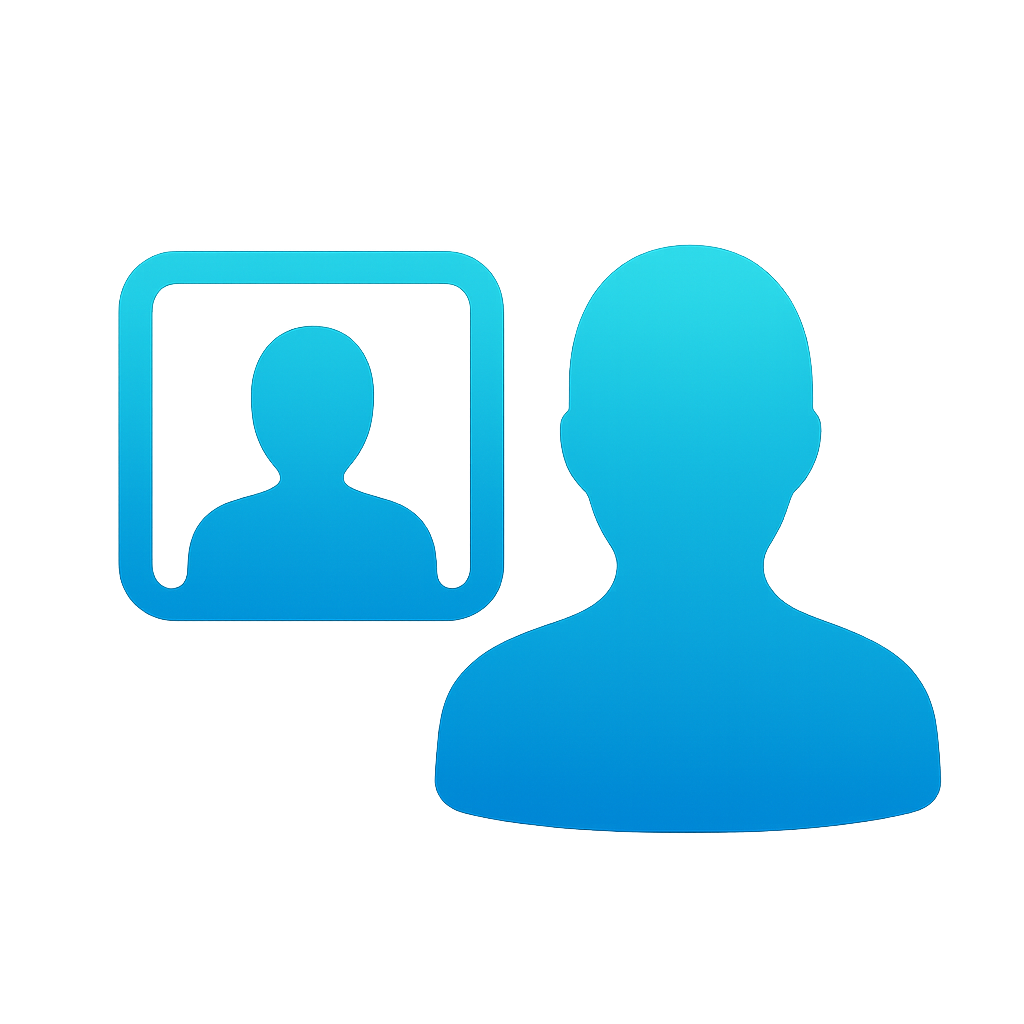
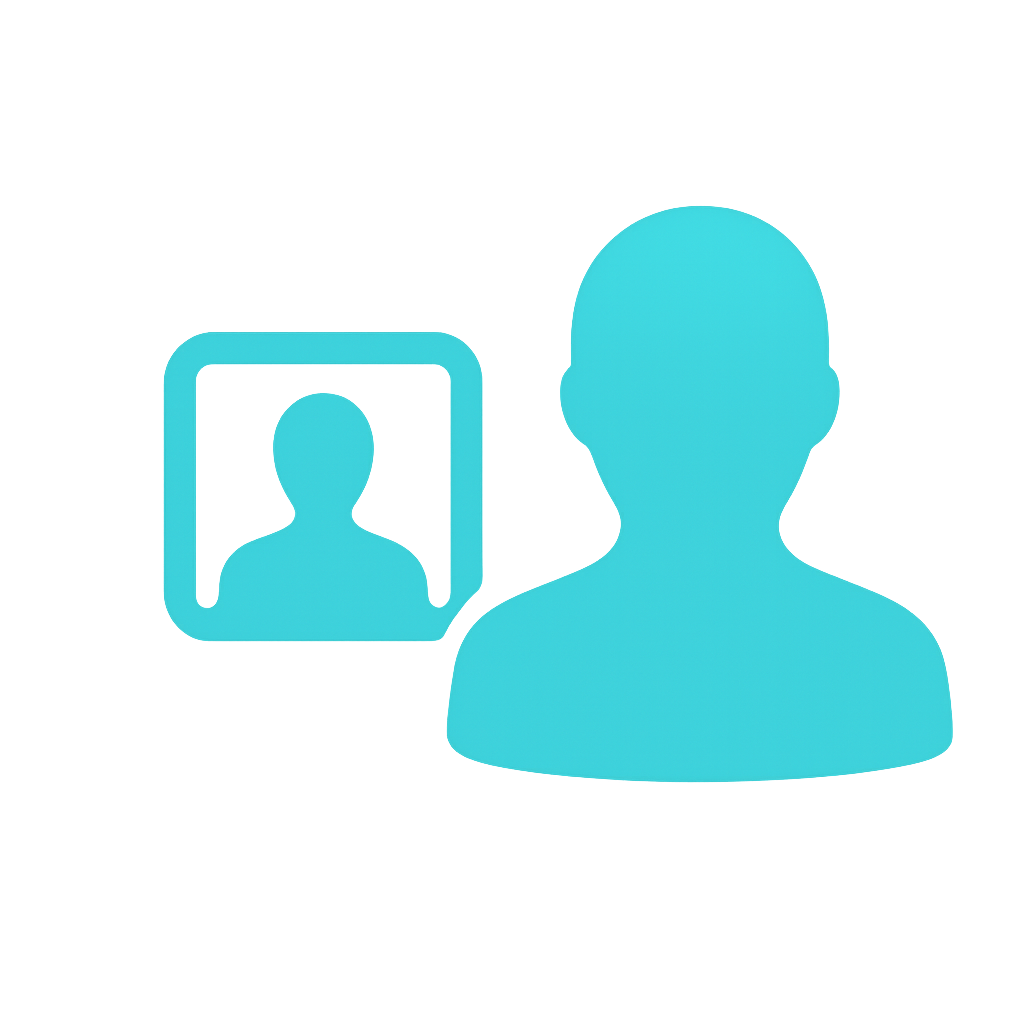
LPページ改修: ヘッダーのスクロール改善・色味シアン統一・パートナーボタンのミニマル化(PC/モバイル)・PC版赤ドット削除／モバイルスライドメニューをリッチ化・アイコン付リンク化／セクションID追加(services/results/contact)で正確スクロール対応／実績・お問い合わせセクションのID整備

Changed region(s): [[0.0938, 0.1875, 0.9375, 0.8125]]

diff --git a/components/lp/LPHeader.tsx b/components/lp/LPHeader.tsx
@@ -8,8 +8,15 @@ import { motion } from 'framer-motion'
 export default function LPHeader() {
   const [isMenuOpen, setIsMenuOpen] = useState(false)
 
+  const scrollToId = (id: string) => {
+    const el = document.getElementById(id)
+    if (el) {
+      el.scrollIntoView({ behavior: 'smooth', block: 'start' })
+    }
+  }
+
   return (
-    <header className="relative z-50 bg-white/95 backdrop-blur-md border-b border-gray-200/50">
+    <header className="relative z-50 bg-white border-b border-gray-200/70">
       <div className="container mx-auto px-4">
         <div className="flex items-center justify-between h-16">
           {/* ロゴ */}
@@ -25,61 +32,60 @@ export default function LPHeader() {
           </Link>
 
           {/* デスクトップメニュー */}
-          <nav className="hidden md:flex items-center gap-6">
-            <Link 
-              href="#services" 
-              className="text-gray-600 hover:text-blue-600 transition-colors font-medium"
+          <nav className="hidden md:flex items-center gap-4">
+            <Link
+              href="#services"
+              onClick={(e) => { e.preventDefault(); scrollToId('services') }}
+              className="px-3 py-1 rounded-full text-gray-700 hover:text-cyan-700 hover:bg-cyan-50 transition-colors font-medium ring-1 ring-transparent hover:ring-cyan-100"
             >
               サービス
             </Link>
-            <Link 
-              href="#results" 
-              className="text-gray-600 hover:text-blue-600 transition-colors font-medium"
+            <Link
+              href="#results"
+              onClick={(e) => { e.preventDefault(); scrollToId('results') }}
+              className="px-3 py-1 rounded-full text-gray-700 hover:text-cyan-700 hover:bg-cyan-50 transition-colors font-medium ring-1 ring-transparent hover:ring-cyan-100"
             >
               実績
             </Link>
-            <Link 
-              href="#contact" 
-              className="text-gray-600 hover:text-blue-600 transition-colors font-medium"
+            <Link
+              href="#contact"
+              onClick={(e) => { e.preventDefault(); scrollToId('contact') }}
+              className="px-3 py-1 rounded-full text-gray-700 hover:text-cyan-700 hover:bg-cyan-50 transition-colors font-medium ring-1 ring-transparent hover:ring-cyan-100"
             >
               お問い合わせ
             </Link>
-            
-            {/* パートナーボタン - 特別デザイン */}
+
+            {/* パートナーボタン - ミニマル＆プレミアム */}
             <Link 
               href="/partners"
-              className="group relative px-6 py-2 bg-gradient-to-r from-purple-500 via-blue-500 to-cyan-500 text-white font-bold rounded-full shadow-lg hover:shadow-xl transform hover:scale-105 transition-all duration-300 border-2 border-white/20"
+              aria-label="パートナー"
+              className="inline-flex items-center gap-2 px-4 py-2 rounded-full text-white text-sm font-semibold bg-gradient-to-r from-cyan-500 to-cyan-600 shadow-md hover:shadow-lg ring-1 ring-cyan-200 transition-colors duration-200 focus-visible:outline-none focus-visible:ring-2 focus-visible:ring-cyan-300"
             >
-              <span className="relative z-10 flex items-center gap-2">
-                <svg className="w-4 h-4" fill="none" stroke="currentColor" viewBox="0 0 24 24">
-                  <path strokeLinecap="round" strokeLinejoin="round" strokeWidth={2} d="M17 20h5v-2a3 3 0 00-5.356-1.857M17 20H7m10 0v-2c0-.656-.126-1.283-.356-1.857M7 20H2v-2a3 3 0 015.356-1.857M7 20v-2c0-.656.126-1.283.356-1.857m0 0a5.002 5.002 0 019.288 0M15 7a3 3 0 11-6 0 3 3 0 016 0zm6 3a2 2 0 11-4 0 2 2 0 014 0zM7 10a2 2 0 11-4 0 2 2 0 014 0z" />
-                </svg>
-                パートナー
-                <div className="absolute -top-1 -right-1 w-2 h-2 bg-red-500 rounded-full animate-pulse"></div>
-              </span>
-              <div className="absolute inset-0 bg-gradient-to-r from-purple-600 via-blue-600 to-cyan-600 rounded-full opacity-0 group-hover:opacity-100 transition-opacity duration-300"></div>
+              <svg className="w-5 h-5" fill="none" stroke="currentColor" viewBox="0 0 24 24">
+                <path strokeLinecap="round" strokeLinejoin="round" strokeWidth={2} d="M17 20h5v-2a3 3 0 00-5.356-1.857M17 20H7m10 0v-2c0-.656-.126-1.283-.356-1.857M7 20H2v-2a3 3 0 015.356-1.857M7 20v-2c0-.656.126-1.283.356-1.857m0 0a5.002 5.002 0 019.288 0M15 7a3 3 0 11-6 0 3 3 0 016 0zm6 3a2 2 0 11-4 0 2 2 0 014 0zM7 10a2 2 0 11-4 0 2 2 0 014 0z" />
+              </svg>
+              パートナー
             </Link>
           </nav>
 
           {/* モバイル版：パートナーボタンとメニューボタン */}
           <div className="md:hidden flex items-center gap-3">
-            {/* パートナーボタン - モバイル版 */}
+            {/* パートナーボタン - モバイル（ミニマル） */}
             <Link 
               href="/partners"
-              className="px-4 py-2 bg-gradient-to-r from-purple-500 via-blue-500 to-cyan-500 text-white font-bold rounded-full text-sm shadow-lg"
+              aria-label="パートナー"
+              className="inline-flex items-center gap-1.5 px-3.5 py-1.5 rounded-full text-white font-semibold text-xs bg-gradient-to-r from-cyan-500 to-cyan-600 shadow-md ring-1 ring-cyan-200 transition-colors duration-200 active:opacity-90"
             >
-              <span className="flex items-center gap-1">
-                <svg className="w-3 h-3" fill="none" stroke="currentColor" viewBox="0 0 24 24">
-                  <path strokeLinecap="round" strokeLinejoin="round" strokeWidth={2} d="M17 20h5v-2a3 3 0 00-5.356-1.857M17 20H7m10 0v-2c0-.656-.126-1.283-.356-1.857M7 20H2v-2a3 3 0 015.356-1.857M7 20v-2c0-.656.126-1.283.356-1.857m0 0a5.002 5.002 0 019.288 0M15 7a3 3 0 11-6 0 3 3 0 016 0zm6 3a2 2 0 11-4 0 2 2 0 014 0zM7 10a2 2 0 11-4 0 2 2 0 014 0z" />
-                </svg>
-                パートナー
-              </span>
+              <svg className="w-4 h-4" fill="none" stroke="currentColor" viewBox="0 0 24 24">
+                <path strokeLinecap="round" strokeLinejoin="round" strokeWidth={2} d="M17 20h5v-2a3 3 0 00-5.356-1.857M17 20H7m10 0v-2c0-.656-.126-1.283-.356-1.857M7 20H2v-2a3 3 0 015.356-1.857M7 20v-2c0-.656.126-1.283.356-1.857m0 0a5.002 5.002 0 019.288 0M15 7a3 3 0 11-6 0 3 3 0 016 0zm6 3a2 2 0 11-4 0 2 2 0 014 0zM7 10a2 2 0 11-4 0 2 2 0 014 0z" />
+              </svg>
+              パートナー
             </Link>
             
             {/* ハンバーガーメニューボタン */}
             <button
               onClick={() => setIsMenuOpen(!isMenuOpen)}
-              className="flex items-center justify-center w-10 h-10 rounded-lg text-gray-600 hover:text-blue-600 hover:bg-gray-100 transition-colors"
+              className="flex items-center justify-center w-10 h-10 rounded-lg text-gray-600 hover:text-cyan-700 hover:bg-gray-100 transition-colors"
             >
               <svg className="w-6 h-6" fill="none" stroke="currentColor" viewBox="0 0 24 24">
                 {isMenuOpen ? (
@@ -98,31 +104,53 @@ export default function LPHeader() {
             initial={{ opacity: 0, y: -20 }}
             animate={{ opacity: 1, y: 0 }}
             exit={{ opacity: 0, y: -20 }}
-            className="md:hidden absolute top-16 left-0 right-0 bg-white border-b border-gray-200 shadow-lg"
+            className="md:hidden absolute top-16 left-0 right-0"
           >
-            <nav className="container mx-auto px-4 py-4 space-y-3">
-              <Link 
-                href="#services" 
-                className="block text-gray-600 hover:text-blue-600 transition-colors font-medium py-2"
-                onClick={() => setIsMenuOpen(false)}
-              >
-                サービス
-              </Link>
-              <Link 
-                href="#results" 
-                className="block text-gray-600 hover:text-blue-600 transition-colors font-medium py-2"
-                onClick={() => setIsMenuOpen(false)}
-              >
-                実績
-              </Link>
-              <Link 
-                href="#contact" 
-                className="block text-gray-600 hover:text-blue-600 transition-colors font-medium py-2"
-                onClick={() => setIsMenuOpen(false)}
-              >
-                お問い合わせ
-              </Link>
-            </nav>
+            <div className="mx-3 bg-white/95 backdrop-blur-md rounded-2xl border border-gray-200/70 ring-1 ring-white/60 shadow-[0_12px_40px_rgba(2,132,199,0.12)] overflow-hidden">
+              <div className="pointer-events-none -mx-3 -mt-3 h-8 bg-gradient-to-b from-white/80 to-transparent"></div>
+              <nav className="px-4 py-4 space-y-2">
+                <Link
+                  href="#services"
+                  onClick={(e) => { e.preventDefault(); setIsMenuOpen(false); scrollToId('services') }}
+                  className="flex items-center justify-between px-4 py-3 rounded-xl bg-white/95 ring-1 ring-gray-200/70 hover:ring-cyan-200 shadow-sm hover:shadow-md text-gray-800 hover:text-cyan-700 transition-all"
+                >
+                  <span className="flex items-center gap-3">
+                    <span className="inline-flex items-center justify-center w-8 h-8 rounded-lg bg-gradient-to-br from-cyan-500 to-cyan-600 text-white">
+                      <svg className="w-4 h-4" fill="none" stroke="currentColor" viewBox="0 0 24 24"><path stroke-linecap="round" stroke-linejoin="round" stroke-width="2" d="M3 7h18M3 12h18M3 17h18" /></svg>
+                    </span>
+                    <span className="font-semibold">サービス</span>
+                  </span>
+                  <svg className="w-5 h-5 text-gray-400" fill="none" stroke="currentColor" viewBox="0 0 24 24"><path stroke-linecap="round" stroke-linejoin="round" stroke-width="2" d="M9 5l7 7-7 7" /></svg>
+                </Link>
+                <Link
+                  href="#results"
+                  onClick={(e) => { e.preventDefault(); setIsMenuOpen(false); scrollToId('results') }}
+                  className="flex items-center justify-between px-4 py-3 rounded-xl bg-white/95 ring-1 ring-gray-200/70 hover:ring-cyan-200 shadow-sm hover:shadow-md text-gray-800 hover:text-cyan-700 transition-all"
+                >
+                  <span className="flex items-center gap-3">
+                    <span className="inline-flex items-center justify-center w-8 h-8 rounded-lg bg-gradient-to-br from-cyan-500 to-cyan-600 text-white">
+                      <svg className="w-4 h-4" fill="none" stroke="currentColor" viewBox="0 0 24 24"><path stroke-linecap="round" stroke-linejoin="round" stroke-width="2" d="M11 11V3m0 8a4 4 0 100 8 4 4 0 000-8zm7 4a7 7 0 11-14 0 7 7 0 0114 0z" /></svg>
+                    </span>
+                    <span className="font-semibold">実績</span>
+                  </span>
+                  <svg className="w-5 h-5 text-gray-400" fill="none" stroke="currentColor" viewBox="0 0 24 24"><path stroke-linecap="round" stroke-linejoin="round" stroke-width="2" d="M9 5l7 7-7 7" /></svg>
+                </Link>
+                <Link
+                  href="#contact"
+                  onClick={(e) => { e.preventDefault(); setIsMenuOpen(false); scrollToId('contact') }}
+                  className="flex items-center justify-between px-4 py-3 rounded-xl bg-white/95 ring-1 ring-gray-200/70 hover:ring-cyan-200 shadow-sm hover:shadow-md text-gray-800 hover:text-cyan-700 transition-all"
+                >
+                  <span className="flex items-center gap-3">
+                    <span className="inline-flex items-center justify-center w-8 h-8 rounded-lg bg-gradient-to-br from-cyan-500 to-cyan-600 text-white">
+                      <svg className="w-4 h-4" fill="none" stroke="currentColor" viewBox="0 0 24 24"><path stroke-linecap="round" stroke-linejoin="round" stroke-width="2" d="M3 8l7.89 5.26a2 2 0 002.22 0L21 8M5 19h14a2 2 0 002-2V7a2 2 0 00-2-2H5a2 2 0 00-2 2v10a2 2 0 002 2z" /></svg>
+                    </span>
+                    <span className="font-semibold">お問い合わせ</span>
+                  </span>
+                  <svg className="w-5 h-5 text-gray-400" fill="none" stroke="currentColor" viewBox="0 0 24 24"><path stroke-linecap="round" stroke-linejoin="round" stroke-width="2" d="M9 5l7 7-7 7" /></svg>
+                </Link>
+              </nav>
+              <div className="h-3" />
+            </div>
           </motion.div>
         )}
       </div>

diff --git a/app/lp/page.tsx b/app/lp/page.tsx
@@ -3,12 +3,12 @@ import { Suspense } from 'react'
 import Link from 'next/link'
 import Image from 'next/image'
 import LPHeader from '@/components/lp/LPHeader'
-import LPHeroSection from '@/components/lp/LPHeroSection'
-import ProblemsSection from '@/components/lp/ProblemsSection'
-import SubsidySection from '@/components/lp/SubsidySection'
-import TechResultsSection from '@/components/lp/TechResultsSection'
-import ServicesSection from '@/components/lp/ServicesSection'
-import ContactSection from '@/components/lp/ContactSection'
+import LPHeroSectionSSR from '@/components/lp/LPHeroSectionSSR'
+import ProblemsSectionSSR from '@/components/lp/ProblemsSectionSSR'
+import SubsidySectionSSR from '@/components/lp/SubsidySectionSSR'
+import TechResultsSectionSSR from '@/components/lp/TechResultsSectionSSR'
+import ServicesSectionSSR from '@/components/lp/ServicesSectionSSR'
+import ContactSectionSSR from '@/components/lp/ContactSectionSSR'
 // LP専用フッターは共通フッターと重複するため削除
 import PostsGridSSR from '@/components/common/PostsGridSSR'
 import PostsGridAnimations from '@/components/common/PostsGridAnimations'
@@ -166,11 +166,11 @@ export default async function LPPage() {
         <div className="absolute inset-0 bg-[url('/images/grid.svg')] opacity-10" />
       </div>
       <LPHeader />
-      <LPHeroSection />
-      <ProblemsSection />
-      <SubsidySection />
-      <TechResultsSection />
-      <ServicesSection />
+      <LPHeroSectionSSR />
+      <ProblemsSectionSSR />
+      <SubsidySectionSSR />
+      <TechResultsSectionSSR />
+      <ServicesSectionSSR />
       {/* ROI計算ツール（ブログセクションの直前に配置） */}
       <section id="roi-calculator" className="py-20 bg-gradient-to-b from-gray-900 via-slate-900 to-black">
         <div className="container mx-auto px-4">
@@ -209,7 +209,7 @@ export default async function LPPage() {
           </div>
         </div>
        </section>
-      <ContactSection />
+      <ContactSectionSSR />
     </main>
   )
 } 

diff --git a/components/lp/LPHeroSectionSSR.tsx b/components/lp/LPHeroSectionSSR.tsx
@@ -1,0 +1,22 @@
+import dynamic from 'next/dynamic'
+
+// 既存のクライアント実装（アニメーション等を含む）
+const LPHeroSection = dynamic(() => import('./LPHeroSection'), {
+  ssr: true,
+  loading: () => (
+    <section className="relative">
+      <div className="container mx-auto px-4 py-16">
+        <div className="animate-pulse">
+          <div className="h-6 w-48 bg-gray-200/60 rounded mb-4" />
+          <div className="h-10 w-80 bg-gray-200/60 rounded mb-6" />
+          <div className="h-5 w-64 bg-gray-200/60 rounded" />
+        </div>
+      </div>
+    </section>
+  )
+})
+
+export default function LPHeroSectionSSR() {
+  // そのまま既存のデザインを表示（テキストはSSR、アニメはクライアントで実行）
+  return <LPHeroSection />
+} 

diff --git a/components/lp/ContactSection.tsx b/components/lp/ContactSection.tsx
@@ -49,7 +49,7 @@ export default function ContactSection() {
   }
 
   return (
-    <section id="keita-nands-program" ref={ref} className="py-20 bg-gradient-to-br from-cyan-900 via-slate-900 to-black relative overflow-hidden">
+    <section id="contact" aria-label="contact-section" data-section="keita-nands-program" ref={ref} className="py-20 bg-gradient-to-br from-cyan-900 via-slate-900 to-black relative overflow-hidden">
       {/* 動的背景 */}
       <div className="absolute inset-0">
         <div className="absolute inset-0 bg-gradient-to-r from-cyan-500/10 via-blue-600/10 to-cyan-500/10"></div>

diff --git a/components/lp/ProblemsSectionSSR.tsx b/components/lp/ProblemsSectionSSR.tsx
@@ -1,0 +1,19 @@
+import dynamic from 'next/dynamic'
+
+const ProblemsSection = dynamic(() => import('./ProblemsSection'), {
+  ssr: true,
+  loading: () => (
+    <section className="py-16">
+      <div className="container mx-auto px-4">
+        <div className="animate-pulse max-w-3xl mx-auto text-center">
+          <div className="h-6 w-56 bg-gray-200/60 rounded mx-auto mb-4" />
+          <div className="h-4 w-72 bg-gray-200/60 rounded mx-auto" />
+        </div>
+      </div>
+    </section>
+  )
+})
+
+export default function ProblemsSectionSSR() {
+  return <ProblemsSection />
+} 

diff --git a/components/lp/TechResultsSectionSSR.tsx b/components/lp/TechResultsSectionSSR.tsx
@@ -1,0 +1,19 @@
+import dynamic from 'next/dynamic'
+
+const TechResultsSection = dynamic(() => import('./TechResultsSection'), {
+  ssr: true,
+  loading: () => (
+    <section className="py-16">
+      <div className="container mx-auto px-4">
+        <div className="animate-pulse text-center">
+          <div className="h-6 w-56 bg-gray-200/60 rounded mx-auto mb-3" />
+          <div className="h-4 w-80 bg-gray-200/60 rounded mx-auto" />
+        </div>
+      </div>
+    </section>
+  )
+})
+
+export default function TechResultsSectionSSR() {
+  return <TechResultsSection />
+} 

diff --git a/components/lp/SubsidySectionSSR.tsx b/components/lp/SubsidySectionSSR.tsx
@@ -1,0 +1,19 @@
+import dynamic from 'next/dynamic'
+
+const SubsidySection = dynamic(() => import('./SubsidySection'), {
+  ssr: true,
+  loading: () => (
+    <section className="py-12">
+      <div className="container mx-auto px-4">
+        <div className="animate-pulse max-w-4xl mx-auto">
+          <div className="h-6 w-64 bg-gray-200/60 rounded mb-3 mx-auto" />
+          <div className="h-4 w-80 bg-gray-200/60 rounded mx-auto" />
+        </div>
+      </div>
+    </section>
+  )
+})
+
+export default function SubsidySectionSSR() {
+  return <SubsidySection />
+} 

diff --git a/components/lp/ServicesSectionSSR.tsx b/components/lp/ServicesSectionSSR.tsx
@@ -1,0 +1,19 @@
+import dynamic from 'next/dynamic'
+
+const ServicesSection = dynamic(() => import('./ServicesSection'), {
+  ssr: true,
+  loading: () => (
+    <section className="py-16">
+      <div className="container mx-auto px-4">
+        <div className="animate-pulse text-center">
+          <div className="h-6 w-56 bg-gray-200/60 rounded mx-auto mb-3" />
+          <div className="h-4 w-80 bg-gray-200/60 rounded mx-auto" />
+        </div>
+      </div>
+    </section>
+  )
+})
+
+export default function ServicesSectionSSR() {
+  return <ServicesSection />
+} 

diff --git a/components/lp/ContactSectionSSR.tsx b/components/lp/ContactSectionSSR.tsx
@@ -1,0 +1,19 @@
+import dynamic from 'next/dynamic'
+
+const ContactSection = dynamic(() => import('./ContactSection'), {
+  ssr: true,
+  loading: () => (
+    <section className="py-16">
+      <div className="container mx-auto px-4">
+        <div className="animate-pulse text-center">
+          <div className="h-6 w-56 bg-gray-200/60 rounded mx-auto mb-3" />
+          <div className="h-4 w-80 bg-gray-200/60 rounded mx-auto" />
+        </div>
+      </div>
+    </section>
+  )
+})
+
+export default function ContactSectionSSR() {
+  return <ContactSection />
+} 

diff --git a/components/lp/TechResultsSection.tsx b/components/lp/TechResultsSection.tsx
@@ -65,7 +65,7 @@ export default function TechResultsSection() {
   ]
 
   return (
-    <section ref={ref} className="py-20 bg-gradient-to-br from-gray-900 to-slate-800 relative overflow-hidden">
+    <section id="results" ref={ref} className="py-20 bg-gradient-to-br from-gray-900 to-slate-800 relative overflow-hidden">
       {/* 背景エフェクト */}
       <div className="absolute inset-0">
         <div className="absolute top-1/4 left-1/4 w-64 h-64 bg-blue-500/10 rounded-full filter blur-3xl"></div>

diff --git a/components/lp/ServicesSection.tsx b/components/lp/ServicesSection.tsx
@@ -96,7 +96,7 @@ export default function ServicesSection() {
   ]
 
   return (
-    <section ref={ref} className="py-20 bg-gradient-to-br from-gray-50 to-white">
+    <section id="services" ref={ref} className="py-20 bg-gradient-to-br from-gray-50 to-white">
       <div className="container mx-auto px-4">
         <motion.div
           initial="hidden"
